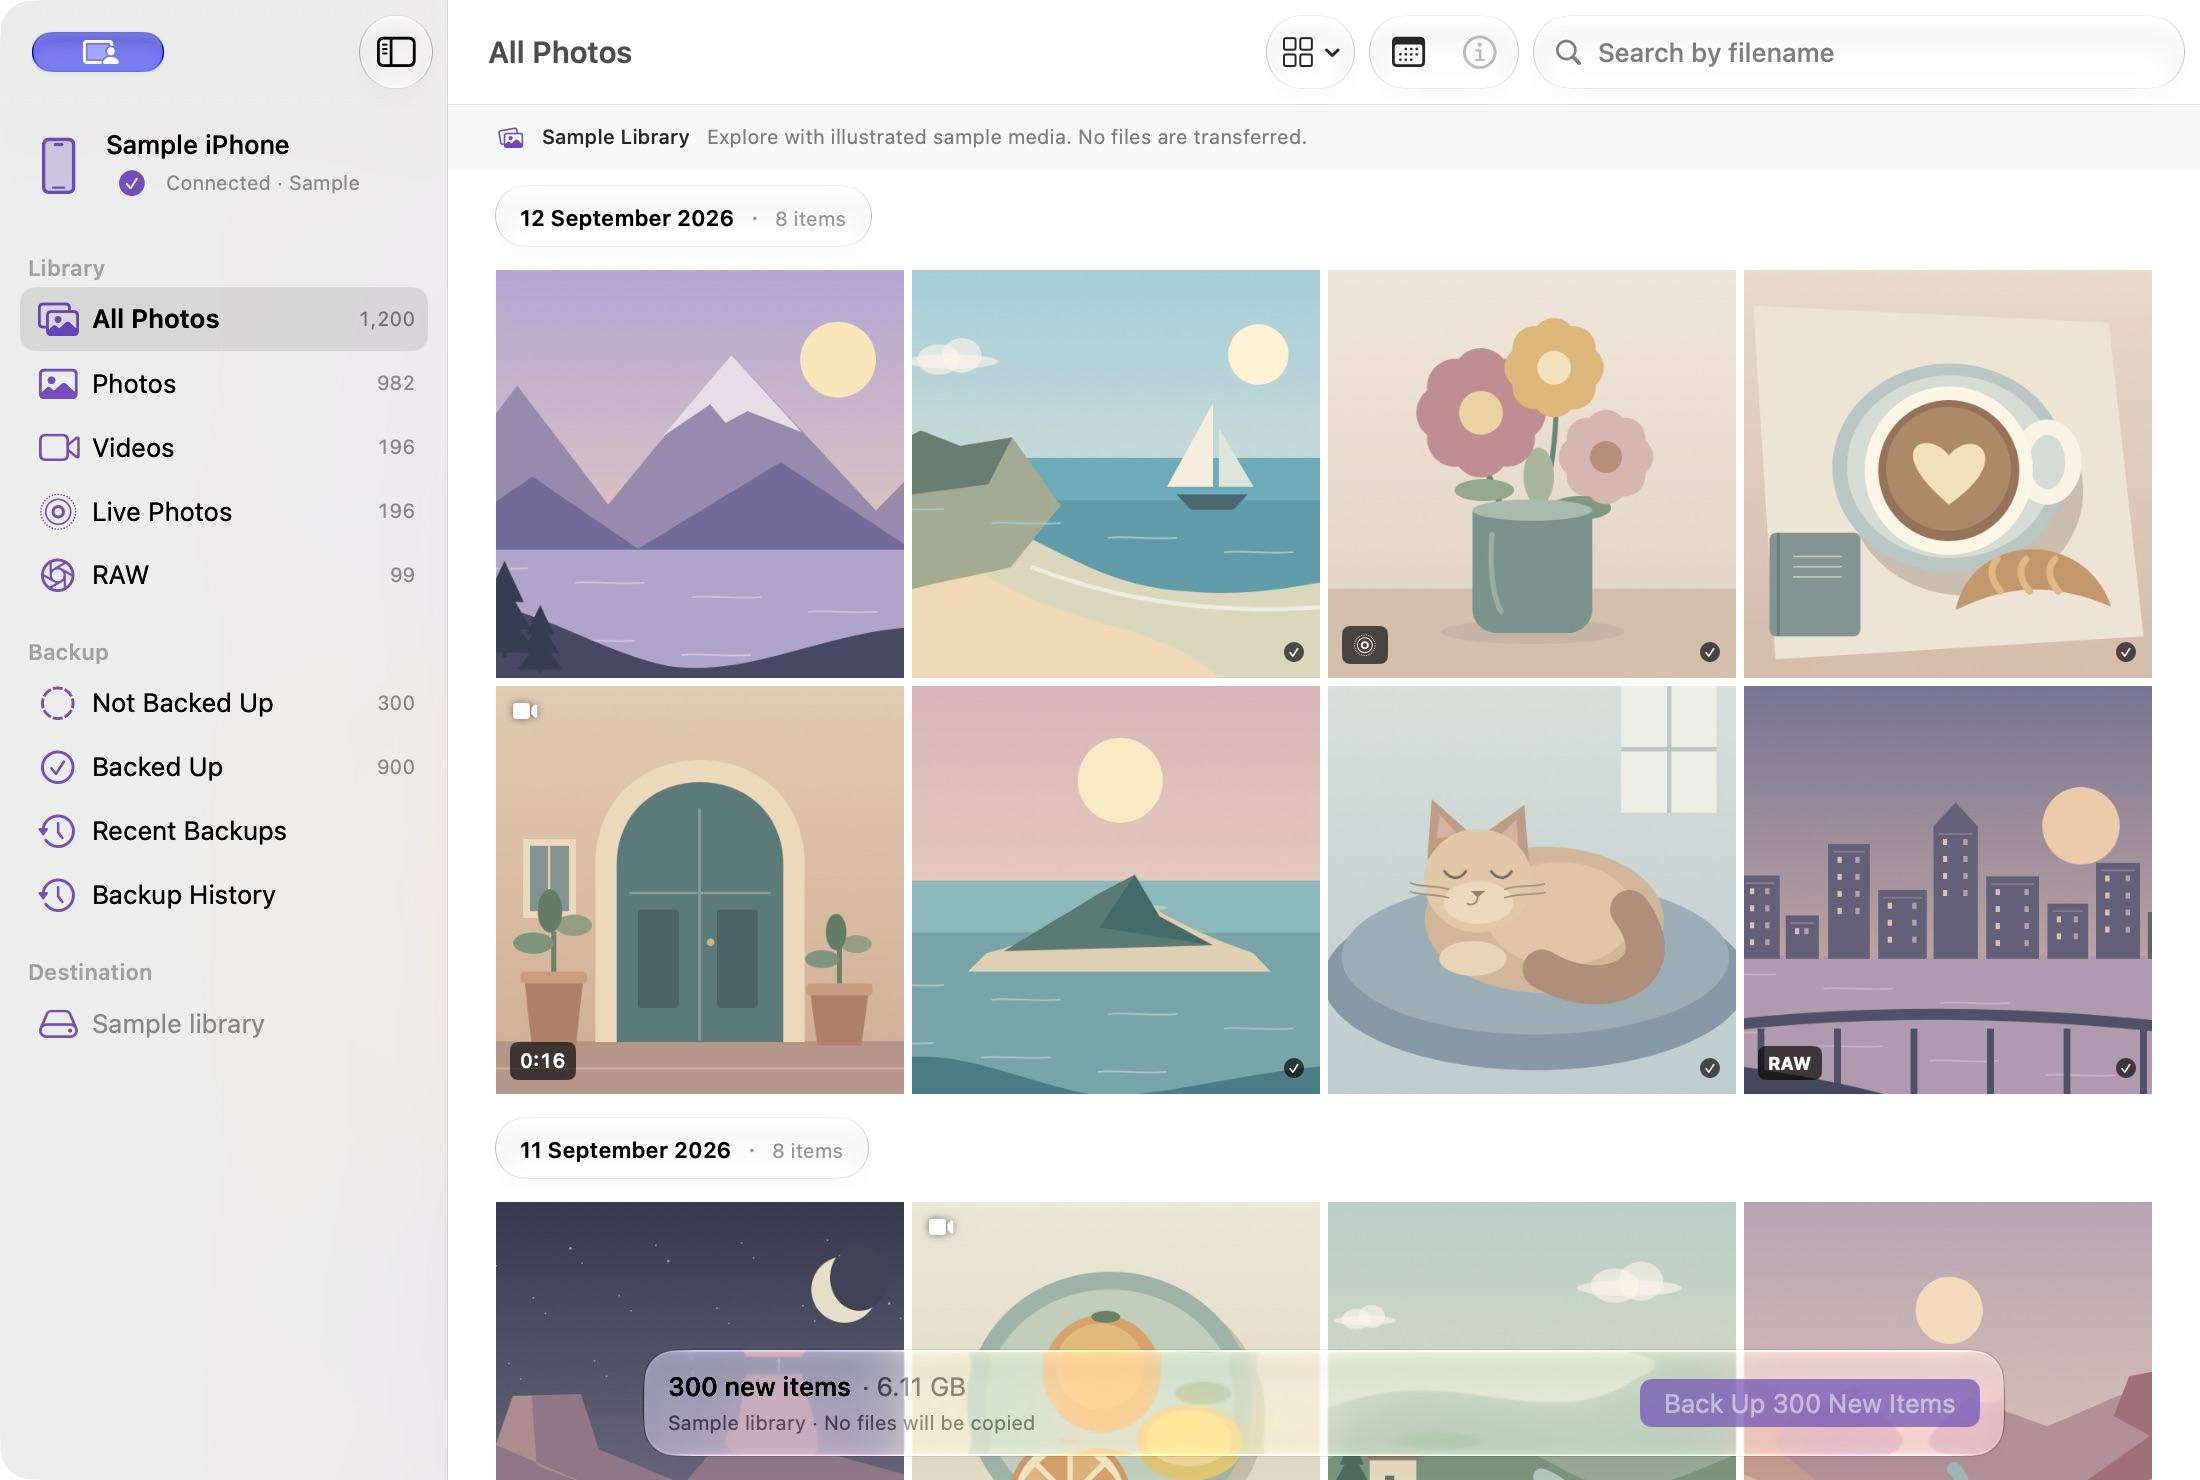
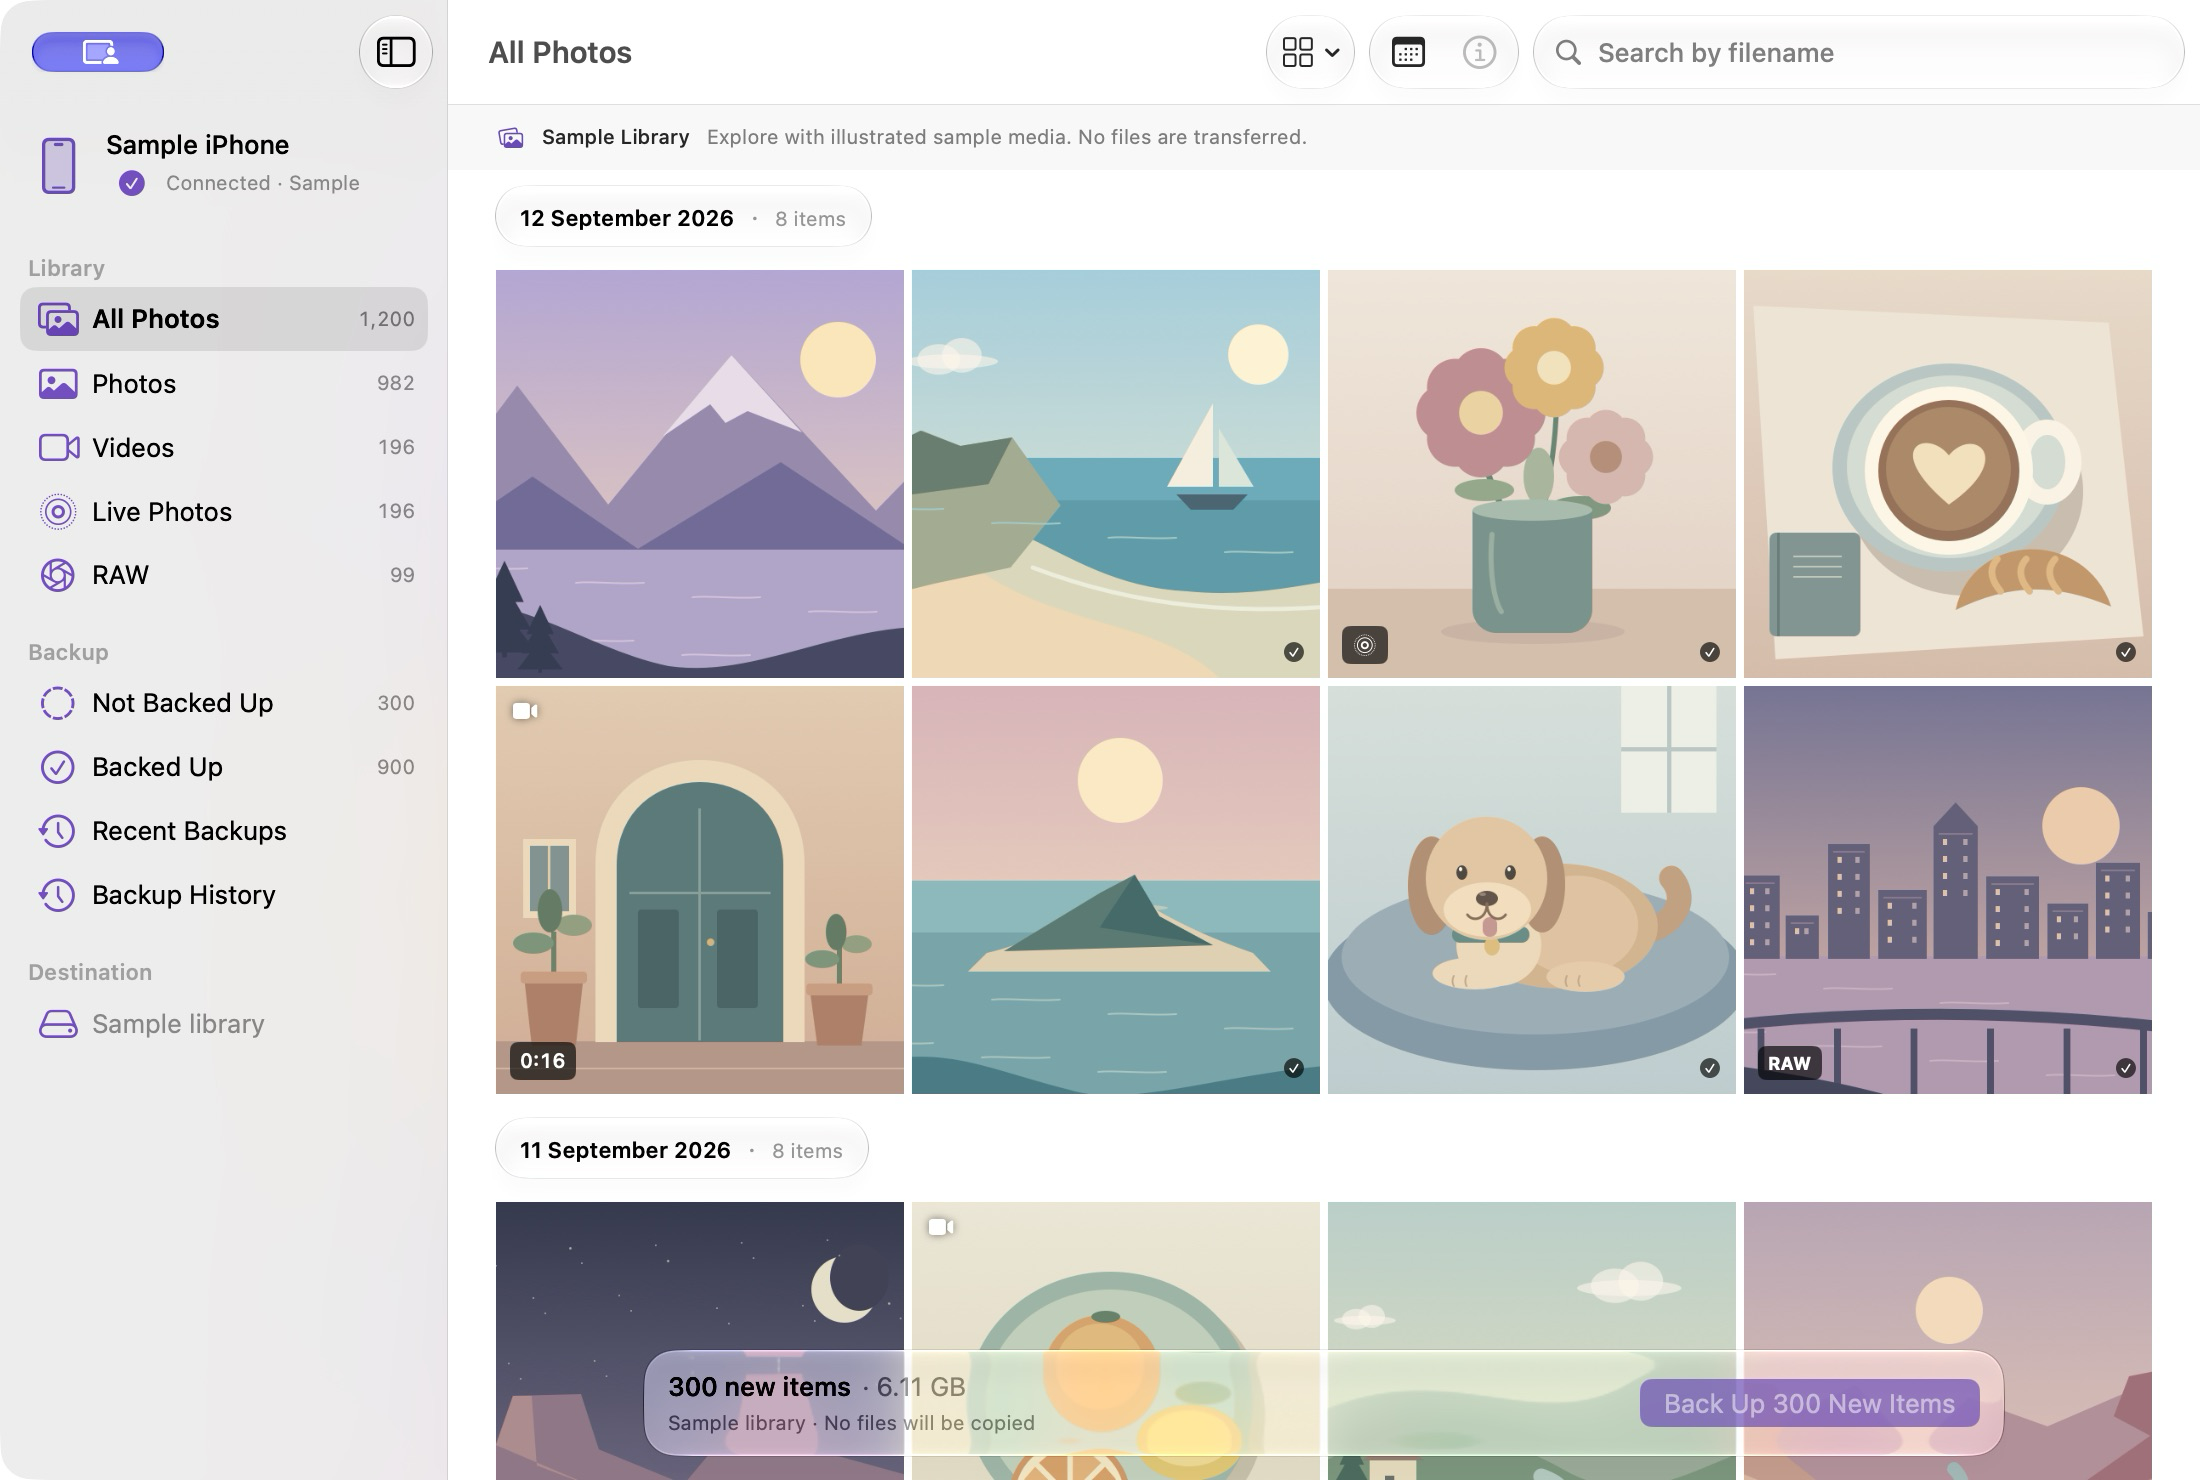
Replace sample cat with a puppy and refresh website captures

Changed region(s): [[0.6182, 0.5284, 0.7727, 0.6838]]

diff --git a/apps/macos/scripts/generate_sample_art.swift b/apps/macos/scripts/generate_sample_art.swift
@@ -197,30 +197,37 @@ func courtyard() {
     }
 }
 
-func restingCat() {
+func restingDog() {
     sky(0xD4DFDA, 0xBBCED0)
     rect(425, 0, 112, 149, 0xEDF0E4)
     rect(479, 0, 5, 149, 0xB8C9C5)
     rect(425, 72, 112, 5, 0xB8C9C5)
     oval(74, 240, 500, 212, 0x809BA9)
     oval(96, 228, 456, 182, 0x99AEB8)
-    oval(194, 189, 281, 172, 0xD7B497)
-    oval(266, 207, 174, 123, 0xE4C3A5)
-    curve((435, 263), [(493, 340, 401, 376, 332, 333)], fill: 0xB58D79, close: false, strokeWidth: 46)
-    oval(211, 300, 79, 41, 0xEED3B5)
-    polygon([(197, 204), (202, 133), (248, 174)], 0xC49A81)
-    polygon([(266, 172), (311, 140), (317, 216)], 0xC49A81)
-    polygon([(208, 179), (211, 151), (234, 176)], 0xDCB0A0)
-    polygon([(281, 177), (302, 157), (304, 189)], 0xDCB0A0)
-    oval(193, 168, 127, 122, 0xE7C6A7)
-    oval(216, 230, 82, 50, 0xF0D7B9)
-    curve((217, 218), [(224, 228, 236, 228, 242, 218)], fill: 0x77685F, close: false, strokeWidth: 3)
-    curve((272, 218), [(279, 228, 290, 228, 296, 218)], fill: 0x77685F, close: false, strokeWidth: 3)
-    polygon([(248, 241), (265, 241), (256, 249)], 0xA17972)
-    curve((256, 248), [(256, 256, 249, 259, 244, 256)], fill: 0xA17972, close: false, strokeWidth: 2)
-    for y in [239.0, 249.0] {
-        curve((222, y), [(205, y - 4, 189, y - 3, 177, y - 7)], fill: 0xA58D7A, close: false, strokeWidth: 2)
-        curve((288, y), [(306, y - 5, 321, y - 3, 335, y - 6)], fill: 0xA58D7A, close: false, strokeWidth: 2)
+    curve((432, 292), [(486, 291, 507, 253, 484, 226)], fill: 0xC99F7C, close: false, strokeWidth: 29)
+    oval(235, 209, 233, 147, 0xD8B18B)
+    oval(299, 223, 146, 117, 0xE5C29C)
+    oval(231, 257, 100, 96, 0xF0D7B5)
+    oval(203, 319, 100, 38, 0xF0D7B5)
+    oval(337, 324, 92, 36, 0xEACAA6)
+    roundedRect(226, 283, 91, 19, radius: 9, hex: 0x618F87)
+    oval(264, 295, 18, 22, 0xE3BB76)
+    // Soft, hanging ears and a broad muzzle distinguish the puppy at thumbnail size.
+    oval(174, 177, 56, 116, 0xB78D70)
+    oval(305, 177, 54, 113, 0xB78D70)
+    oval(195, 154, 143, 145, 0xE8C59D)
+    oval(216, 231, 103, 64, 0xF6DDBA)
+    oval(231, 211, 13, 17, 0x514840)
+    oval(288, 211, 13, 17, 0x514840)
+    oval(234, 213, 4, 5, 0xFFF7E7)
+    oval(291, 213, 4, 5, 0xFFF7E7)
+    oval(254, 241, 26, 18, 0x66534A)
+    oval(258, 243, 8, 4, 0x9C8371)
+    roundedRect(262, 272, 17, 23, radius: 8, hex: 0xCF9690)
+    curve((267, 256), [(267, 275, 250, 278, 244, 269)], fill: 0x8C6C57, close: false, strokeWidth: 3)
+    curve((267, 256), [(267, 275, 283, 278, 289, 269)], fill: 0x8C6C57, close: false, strokeWidth: 3)
+    for x in [228.0, 243.0, 361.0, 376.0] {
+        curve((x, 341), [(x - 2, 345, x - 2, 350, x, 353)], fill: 0xC6A688, close: false, strokeWidth: 2)
     }
 }
 
@@ -296,7 +303,7 @@ func drawScene(_ index: Int) {
         waterLines(0xA5C7BF, from: 352)
         curve((-20, 457), [(109, 414, 150, 446, 265, 475), (350, 502, 493, 436, 660, 445)], fill: 0x397F88)
     case 6:
-        restingCat()
+        restingDog()
     case 7: // Evening river and an invented skyline.
         sky(0x777497, 0xE8B6A5)
         oval(431, 119, 91, 91, 0xF3CAA9)

diff --git a/docs/verification/FILMSTRIP-VARIETY-2026-10-29.md b/docs/verification/FILMSTRIP-VARIETY-2026-10-29.md
@@ -69,3 +69,21 @@ Additional verification:
 
 The follow-up remains on `dev` in PR #2. `main`, Cloudflare settings and the deployed site are
 unchanged; merging the PR is the user's production release step.
+
+## Puppy revision and publication request
+
+The user subsequently requested a cute dog instead of the cat and explicitly asked to deploy.
+Replaced only `Sample6` with a floppy-eared puppy on the existing cushion, regenerated the
+deterministic asset, and captured new light/dark native screenshots at 2200×1480. Updated the
+website's image description and artwork inventory. The sample disclosure remains visible;
+no personal photos or composited UI are used.
+
+Normal arm64 Debug build, strict lint (151 files, zero violations), `npm run verify` and Worker
+dry-run passed. Inspected the rebuilt static page at 1440×900, 768×1024 and 390×844, including
+the dark screenshot. No horizontal overflow; both screenshot variants load correctly. App and
+browser appearance overrides were restored and the installed beta reopened. No app beta was
+repackaged. Local evidence: `apps/site/build/verification/20261029-puppy-*.png` (ignored).
+
+Publication is now authorized through PR #2 after CI; its final deployment result is recorded
+in the PR. Cloudflare's previously observed build root `/` must be corrected to `apps/site`
+before promotion. Retain both `main` and `dev` and fast-forward `dev` after the merge.

diff --git a/docs/PLAN.md b/docs/PLAN.md
@@ -1172,3 +1172,9 @@ Debug build, strict lint, site verification and Worker dry-run passed. Desktop/t
 narrow dark layouts were visually checked; see the same audit above. App-only appearance and
 browser overrides were restored. No hardware acceptance or new beta packaging was claimed;
 the changes remain in the existing `dev` → `main` PR for the user's deployment decision.
+
+The user then requested a puppy instead of the cat and authorized deployment. Updated the
+sample asset, recaptured light/dark native screenshots, and verified desktop/tablet/phone
+layouts. Debug build, strict lint, website validation and Worker dry-run passed. Publication
+proceeds through PR #2 after CI with the Cloudflare build root corrected to `apps/site`;
+the PR records the deployment outcome. Native beta packaging and hardware gates are unchanged.

diff --git a/assets/README.md b/assets/README.md
@@ -61,7 +61,7 @@ swift apps/macos/scripts/generate_sample_art.swift
 
 The generator creates `Sample0` through `Sample11` image sets, each with a 640 × 480 PNG. They
 depict alpine dawn, a coastal sailboat, flowers, a café still life, an arched courtyard, an island,
-a resting cat, an evening city, desert night, citrus, a green valley and a canyon.
+a resting puppy, an evening city, desert night, citrus, a green valley and a canyon.
 SwiftUI previews and the explicit mock catalog can reuse
 these image names without USB I/O or full-resolution originals. A sample illustration does not
 represent an actual asset's metadata, transfer size or backup state.
